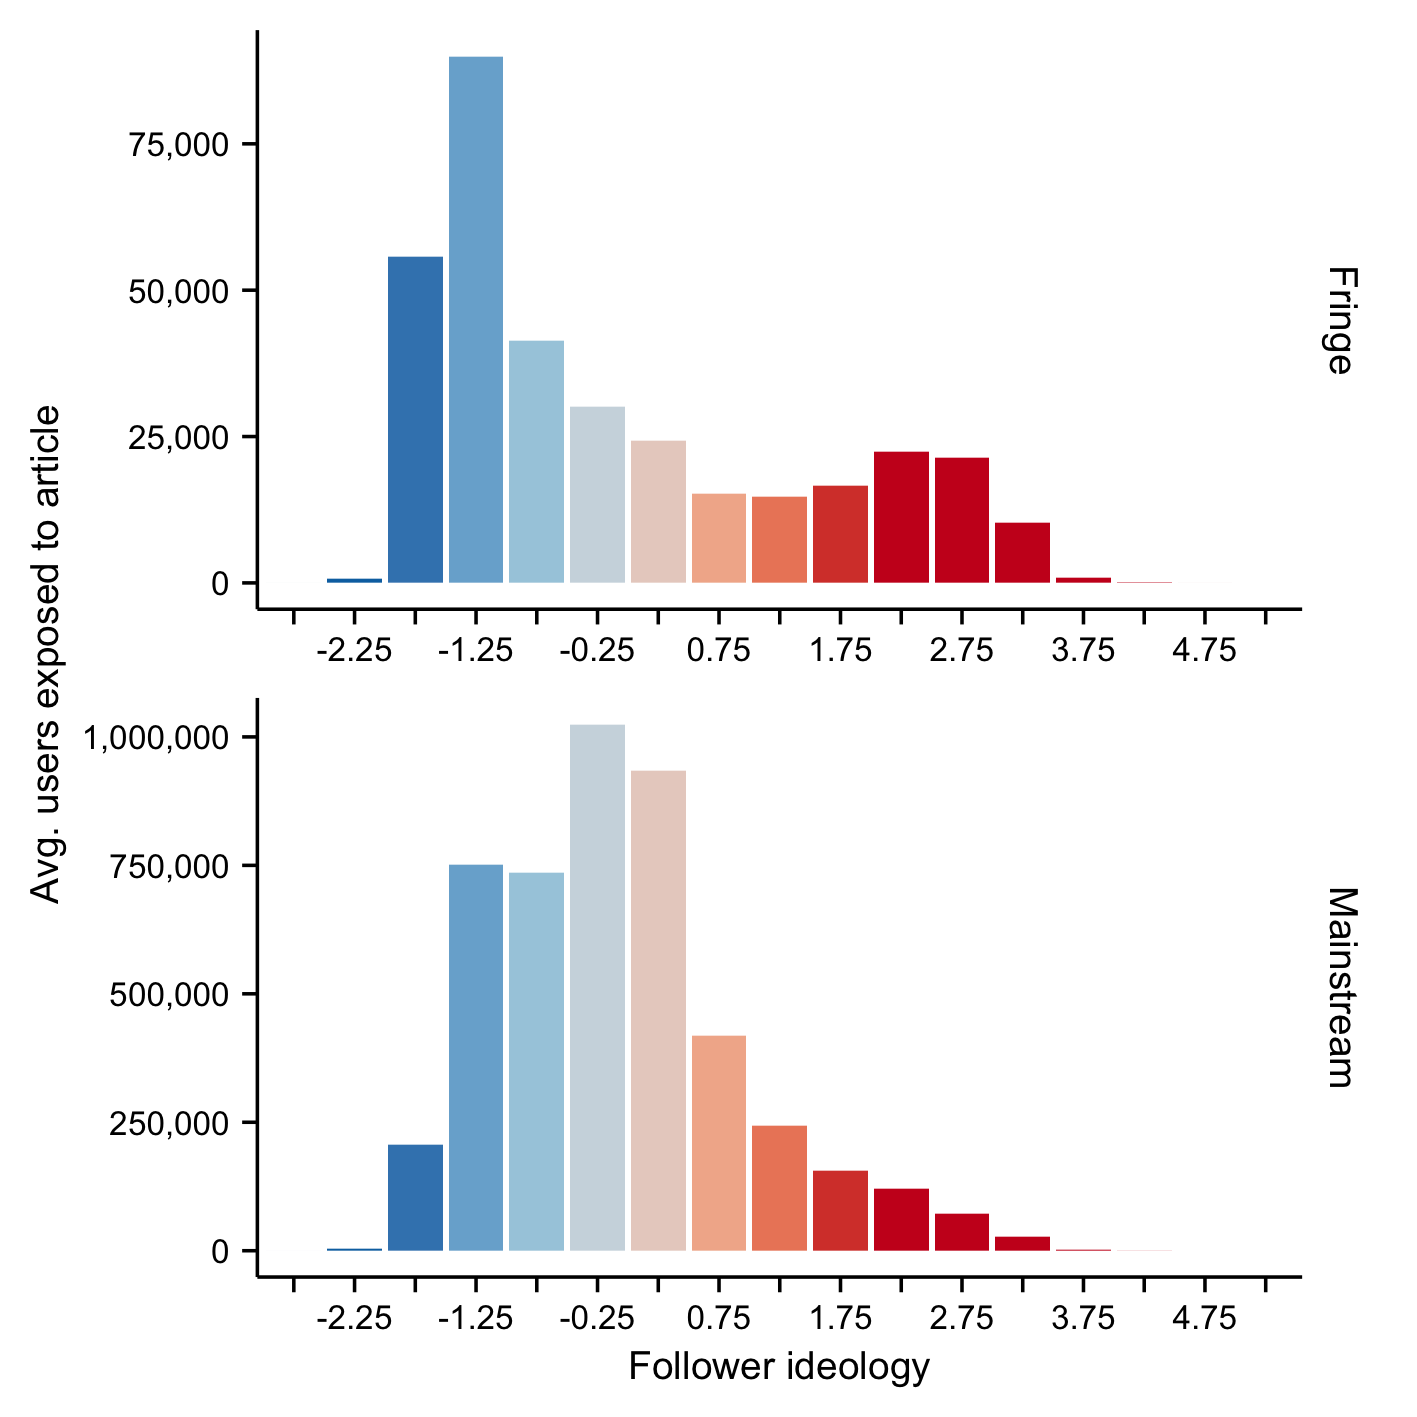
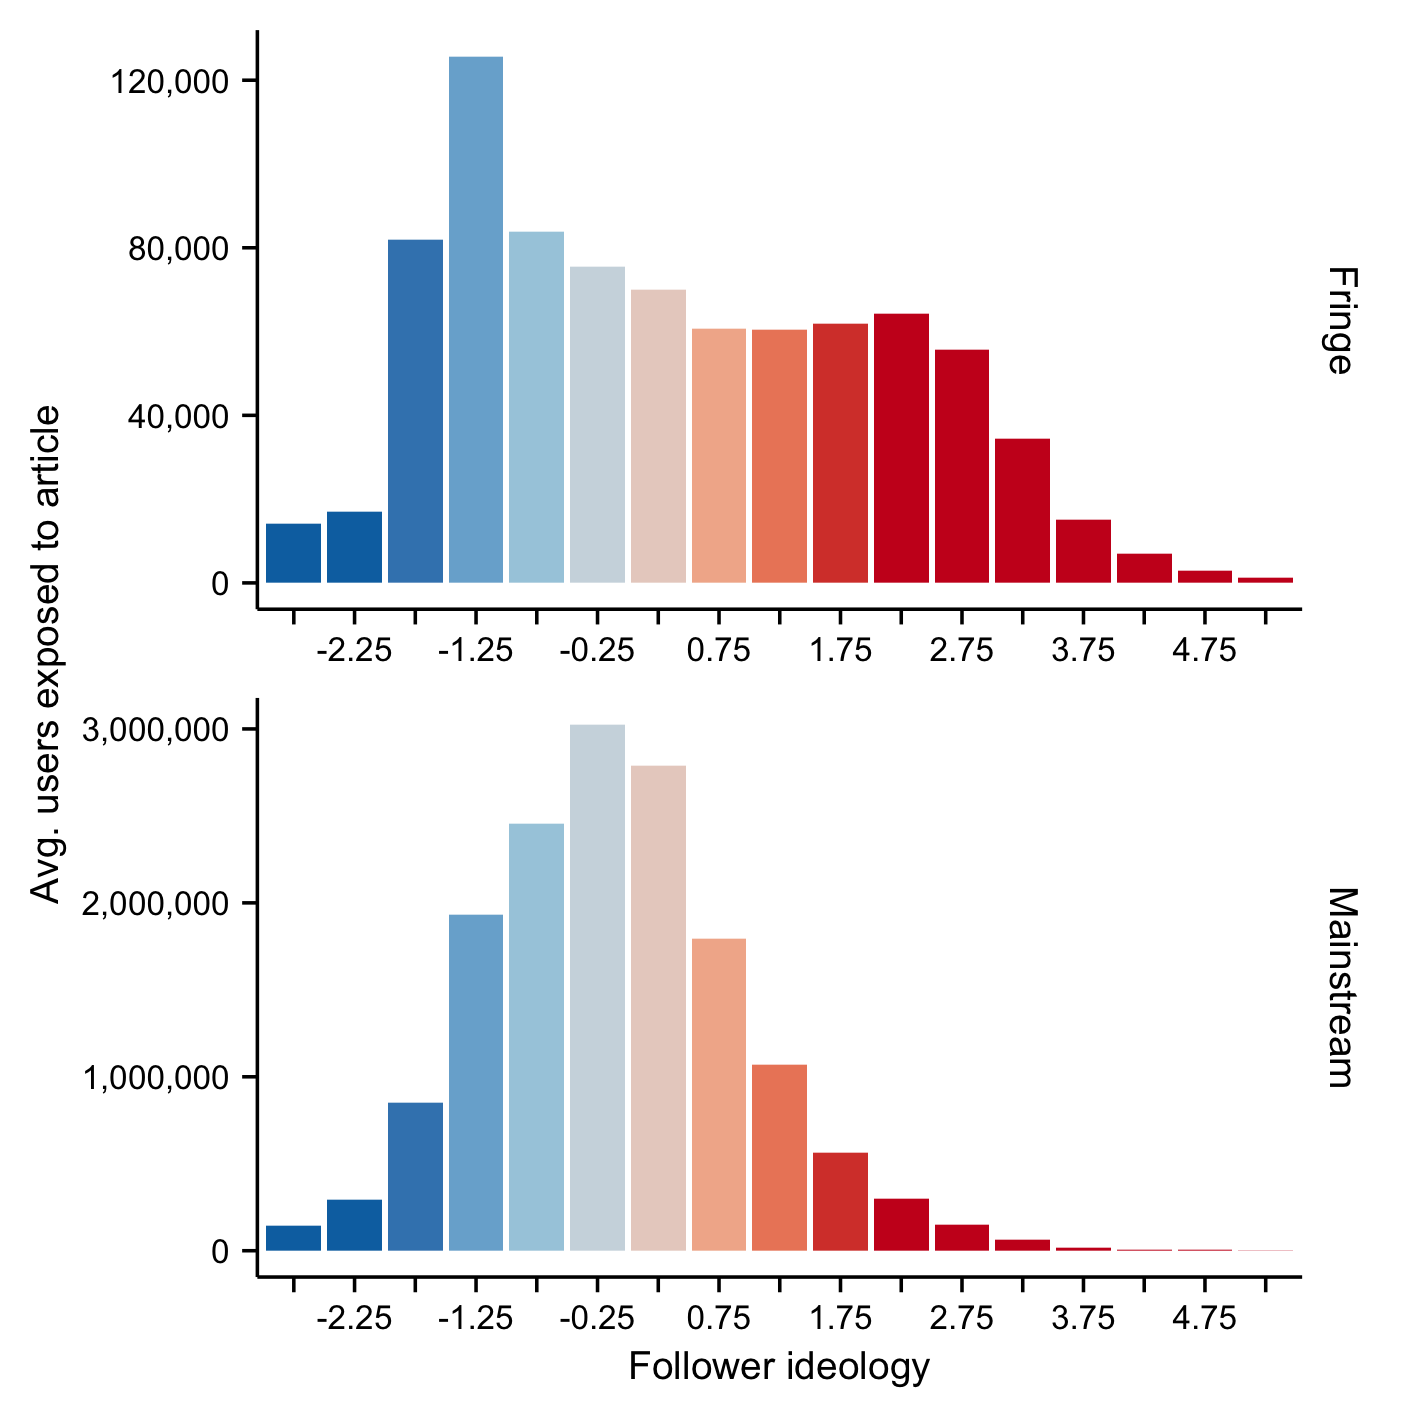
redo exposure plots with fully estimated exposure

diff --git a/scripts/04b_analyze_retweet_networks.py b/scripts/04b_analyze_retweet_networks.py
@@ -73,6 +73,7 @@ rt_nodes = rt_nodes.merge(article_ratings, how = 'left', on = 'total_article_num
 # Get unique articles
 unique_articles = rt_nodes['total_article_number'].unique().astype(int)
 unique_articles.sort()
+unique_articles = unique_articles[unique_articles > 10] #excluding first 10 articles
 
 # Loop over articles and calculate basic metrics
 article_network_metrics = pd.DataFrame(columns = ['total_article_number', 'total_tweets', 'total_RTs',
@@ -108,9 +109,9 @@ for article_id in unique_articles:
     node_ids = np.array([ np.where(unique_ids == x) for x in article_nodes['user_id'] ]).flatten()
     sources = np.array([ np.where(unique_ids == x) for x in article_edges['Source'] ]).flatten()
     targets = np.array([ np.where(unique_ids == x) for x in article_edges['Target'] ]).flatten()
-    g_assort = igraph.Graph(vertex_attrs = {"label": node_ids, 
-                                            edges = list(zip(sources, targets)), 
-                                            directed = True)
+#    g_assort = igraph.Graph(vertex_attrs = {"label": node_ids, 
+#                                            edges = list(zip(sources, targets)), 
+#                                            directed = True)
     
     # Calculate metrics of interest
     network_density = nx.density(g)
